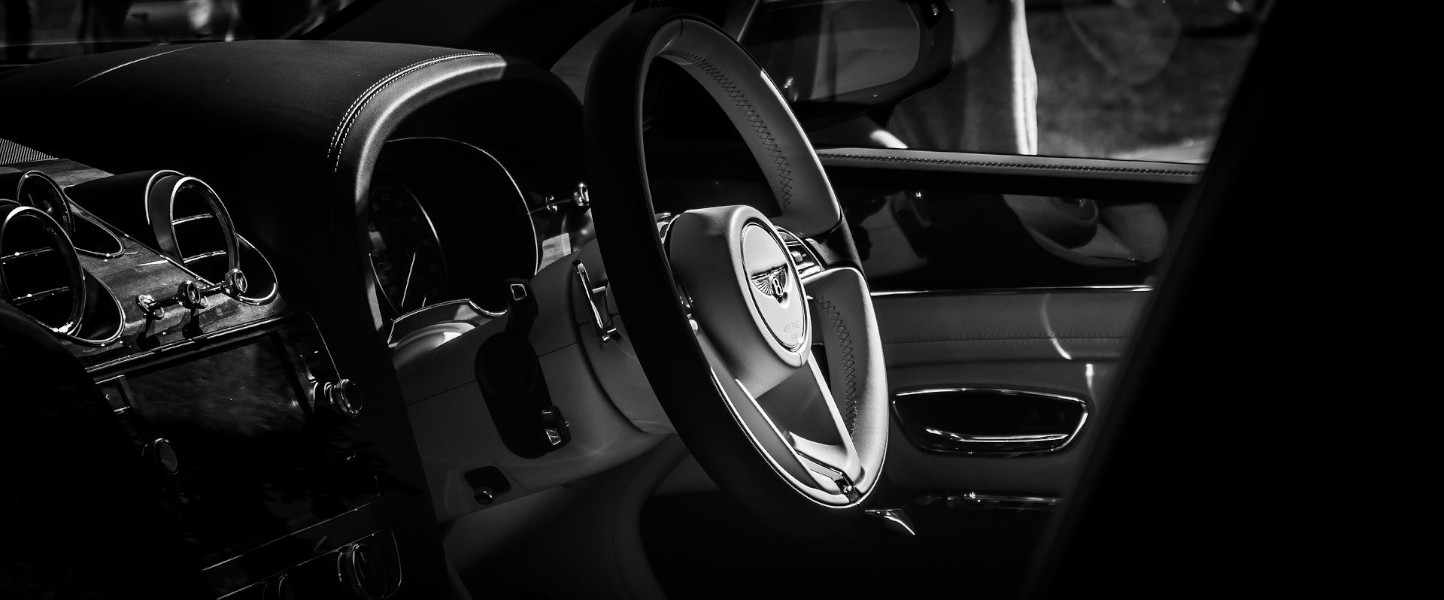
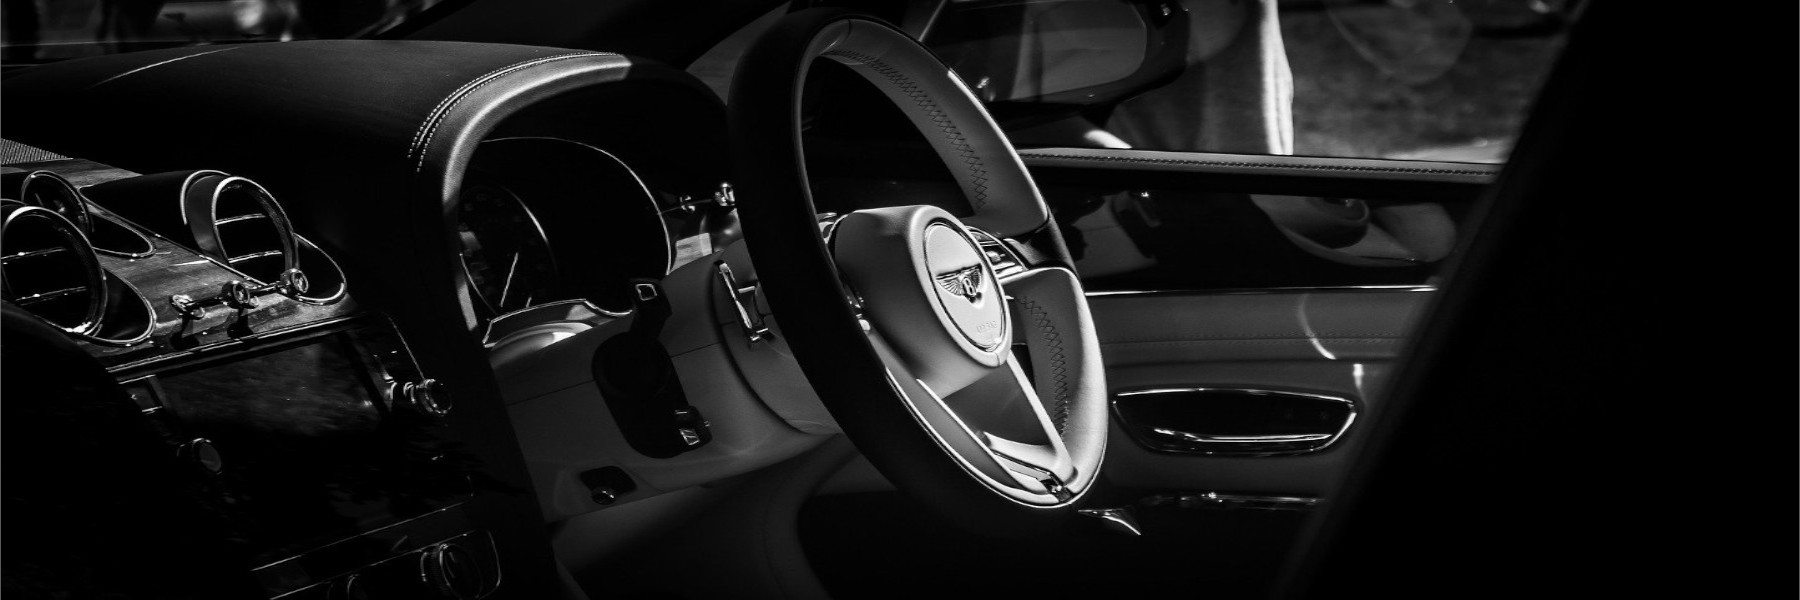
responsive

diff --git a/index.html b/index.html
@@ -17,13 +17,13 @@
             <div id="carouselExampleSlidesOnly" class="carousel slide" data-ride="carousel">
                 <div class="carousel-inner">
                   <div class="carousel-item active">
-                      <img src="img/background.jpg" class="d-block w-100" alt="voiture luxueuse de profil">
+                      <img src="img/background.jpg" class="d-block " alt="voiture luxueuse de profil">
                   </div>
                   <div class="carousel-item">
-                    <img src="img/background2.jpg" class="d-block w-100" alt="un garage vintage">
+                    <img src="img/background2.jpg" class="d-block " alt="un garage vintage">
                   </div>
                   <div class="carousel-item">
-                    <img src="img/background3.jpg" class="d-block w-100" alt="intérieur de voiture vintage">
+                    <img src="img/background3.jpg" class="d-block " alt="intérieur de voiture vintage">
                   </div>
                 </div>
                 
@@ -57,25 +57,24 @@
                             <h4 class="col-md-4">Location de véhicules 24h/24 et 7j/7</h4>
                         </div>
 
-            <!-- barre de navigation -->
-                        <div class="row justify-content-between align-items-center" id="navigation">
-                            <nav class="col-md-10 ">
-                                <select class="input" name="adresse" id="adresse">
-                                    <option value="1">Adresse de départ</option>
-                                    <option value="">-----------</option>
-                                    <option value="">-----------</option>
-    
-                                </select>
-                                <input class="input" type="date" name="locationDebut" id="locationDebut" >
-                                <input class="input" type="date" name="locationFin" id="locationFin" >
-                                
-                             </nav>  
-                             <span class=" col-md-2 valider">Valider</span>            
-                        </div>
-                   </section>   
-                </section>
-
               </div>
+              <!-- barre de navigation -->
+              <div class="row justify-content-between align-items-center" id="navigation">
+                <nav class="col-ms  my-auto">
+                    <select class="input" name="adresse" id="adresse">
+                        <option value="" selected disabled>Adresse de départ</option>
+                        <option value="">-----------</option>
+                        <option value="">-----------</option>
+
+                    </select>
+                    <input class="input" type="date" name="locationDebut" id="locationDebut" placeholder="Début de location">
+                    <input class="input" type="date" name="locationFin" id="locationFin" >
+                    
+                 </nav>  
+                 <span class=" col-ms  valider">Valider ma recherche</span>            
+            </div>
+       </section>   
+    </section>
           
             
             
@@ -84,8 +83,8 @@
 
             <!------- ligne résultats + tri ------------->
             <div class="row justify-content-between triEtResultas">
-                <p class="col-md-2" id="resultats"> 7 Résultats</p>
-                <select name="tri" id="tri" class="col-md-2">
+                <p class="col-ms-2" id="resultats"> 7 Résultats</p>
+                <select name="tri" id="tri" class="col-ms-2">
                     <option value="pertinence">Pertinence</option>
                     <option value="prixCroisants">Prix croisants</option>
                     <option value="prixDecroisants">Prix décroisants</option>                   
@@ -123,7 +122,7 @@
                 </div>
 
                 <!-- texte ----------->
-                <div class="col-5 ">
+                <div class="col-5 bouton ">
                     <div class="card w-100">
                         <div class="card-body">
                           <h5 class="card-title">Peugeot 208</h5>
@@ -415,8 +414,8 @@
         <footer class="container-fluid">
             <div class="container">
                 <div class="row justify-content-center align-items-center footer">
-                    <img src="img/agence.jpg" alt="" class="col-3 agence">
-                    <p class="col-3">
+                    <img src="img/agence.jpg" alt="" class="col-ms agence">
+                    <p class="col-ms">
                         Notre Agence de <span class="bold">Paris</span>
                         <br>
                         300 boulevard de Vaugirard,75015, Paris

diff --git a/eval-js-jquery-SarahCoralie.css b/eval-js-jquery-SarahCoralie.css
@@ -8,7 +8,7 @@
 #carouselExampleSlidesOnly
 {
    overflow: hidden; 
-   height: 75vh;
+  max-height: 65vh;
 }
 header
 {
@@ -18,7 +18,6 @@ header
 }
 .container1
 {
-    z-index: 0;
     min-height: fit-content;
     align-self: flex-end;
     height: 75vh;
@@ -42,7 +41,10 @@ header
 .menuToggle
 {
     background-color: #fff;
-    padding: 1%;   
+    padding: 1%; 
+    position: absolute; 
+    top : 8vh;
+    width: 100%; 
 }
 .menuToggle li
 {
@@ -55,8 +57,18 @@ header
     font-size: 3vw;
     text-align: end;
     opacity: 0.8;
+    padding: 0 1vw;
+    border-radius: 2px;
+    border: white solid 1px;
+    margin-top: 1vh;
 }
-
+.fa-bars:hover
+{
+    background-color: #fff;
+    color: #000;
+    padding: 0 1vw;
+    border-radius: 2px;
+}
 h1
 {
     color: white;
@@ -78,36 +90,42 @@ h4
 }
 #navigation
 {
-    min-height: 8vh;
+    min-height: fit-content;
     position: relative;
-    bottom: 0;
+    bottom: 10vh;
+    width: 70%;
+    left:  auto;
+    margin: 0 auto;
 }
 nav
 {
-    box-sizing: border-box;
+
+    display: flex;
     background-color: #fff;
     opacity: 0.8;
     padding: auto;
     margin: 0;
-    width: 75%;
-    height: 8vh;
+    width: 70%;
+    height: 6vh;    
 }
 .input
 {
     text-align: center!important;
-    margin: 0 1% !important;
+    margin: auto !important;
+    height: 5vh;
+    width: 30%;
 }
 .valider
 {
-    min-height: 8vh;
+    height: 6vh;
     opacity: 0.8; 
     background-color: #28a745; 
+    color: white;
     display: inline-block;
-    width: 25%;
-    align-self: end;
+    width: 30%;
     margin: 0;
     text-align: center;
-    align-content: center;
+    padding: auto;
 }
 .valider:hover
 {
@@ -141,12 +159,6 @@ nav
      margin: 2% 0;
  }
 
-    /*Carousel******************/
-    #carouselExampleControls span
-    {
-        color: black;
-    }
-
     /*article********************/
     .card
     {
@@ -154,16 +166,17 @@ nav
         margin-left: 5%;
     }
 
-
 /*Footer***************************/
 .footer
 {
     height: 25vh;
     width: 100%;
 }
-.footer article
+.footer p
 {
     font-size: 1vw;
+    width: 25%;
+    margin-left: 2%;
 } 
 .footer .bold
 {
@@ -179,6 +192,7 @@ nav
 .agence
 {
     max-height: 25vh;
+    width: 25%;
 }
 footer
 {
@@ -186,10 +200,80 @@ footer
     padding: auto;
 }
 /********************************/
-@media screen and (max-width:780px) 
+
+@media screen and (max-width:1150px) 
 {
+    .container
+    {
+        width: 90%!important;
+    }
     .article p,.article h5
     {
         display: none;
     }
+    #navigation
+    {
+       flex-direction: column;
+       width: 90%;
+       bottom: 15vh;
+    }
+    .valider
+    {
+        width: 100%;
+        margin: auto;
+    }
+    nav
+    {
+        width: 100%;
+    }
+    .article
+    {
+        justify-content: space-between!important;
+        padding: auto 0!important;
+    }
+    .card-body
+    {
+        display: flex;
+        text-align: right!important;
+        padding-right: 0;
+    }
+    .btn
+    {
+        font-size: 1.5vw;
+        position: relative;
+        right: -7vw;
+       
+    }
 }
+/********************************************/
+@media screen and (max-width:780px) 
+{
+    #navigation
+    {
+        bottom: 35vh;
+    }
+    nav
+    {
+        flex-direction: column;
+        height: 25vh;
+        padding: 2%;
+
+    }
+    .input
+    {
+        width: 100%;
+        margin:auto 2%;
+        height: 5vh;
+        text-align: start!important;
+    }
+    .valider:hover
+{
+    box-shadow: 2px 2px 5px white;
+}
+    main
+    {
+        position: relative;
+        top: -25vh;
+    }   
+}
+

diff --git a/eval-js-jquery-SarahCoralie.js b/eval-js-jquery-SarahCoralie.js
@@ -18,8 +18,13 @@ $('.fa-bars').on('click', function()
 //-------------------------------------
 /*   var listeArticles = $('div.article');
     console.log($('div.article'))
-
     
-
 */
+
+// $(window).scroll(fonction(),{
+//     if ( $(window).scrollTop() + $(window).height() == $(document).height())
+//     {
+//         $('.article.hiden').show();
+//     }
+// });
 });
